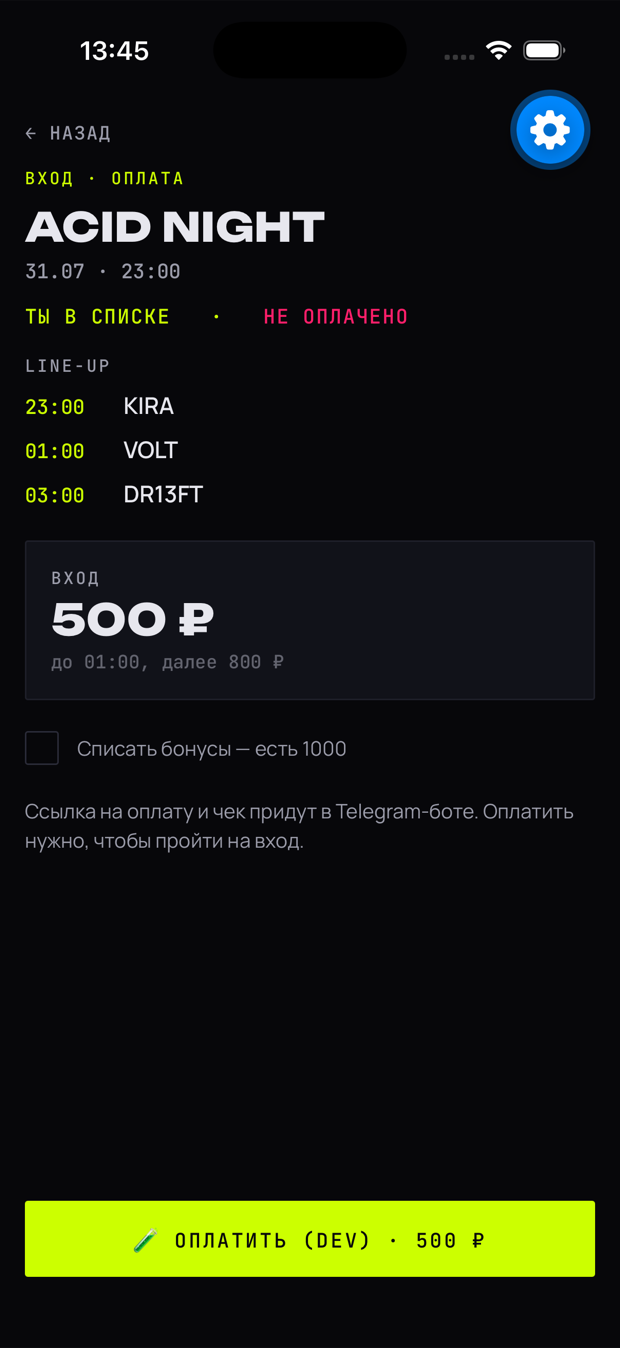
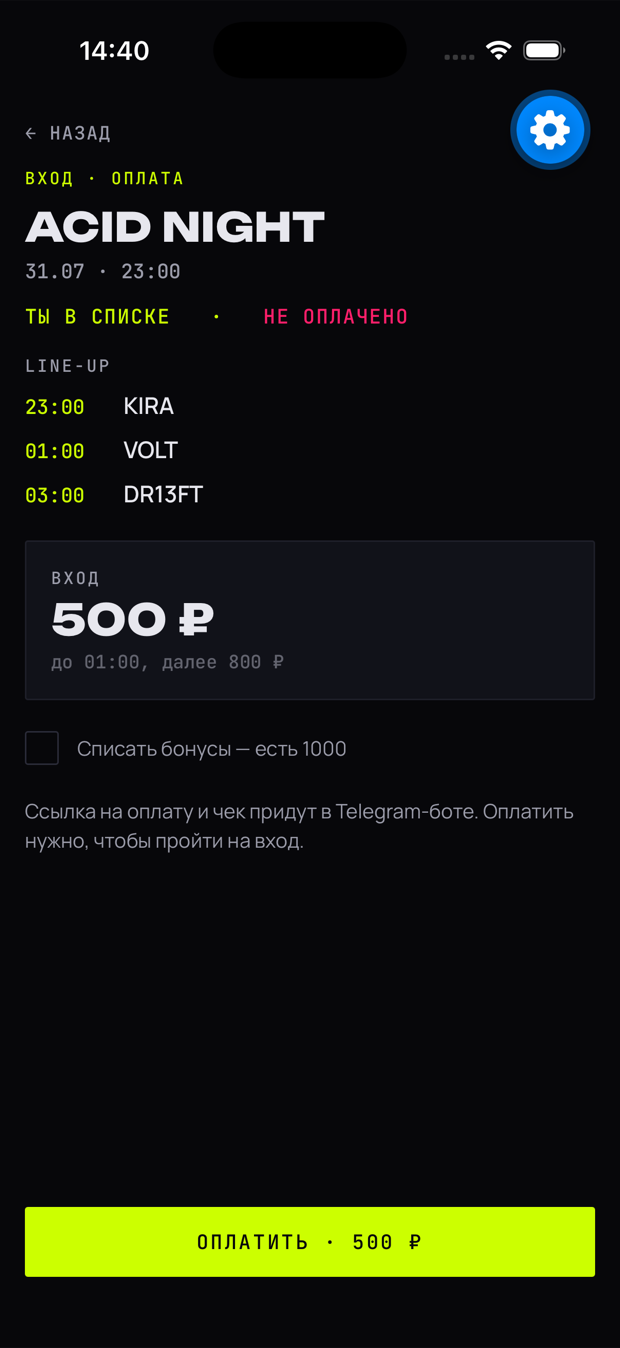
feat: одностраничник для платёжного провайдера + чистый скрин оплаты
Страница /partners (Vite multi-page): описание бизнеса EXIT 13, схема платёжного
флоу (оплата в приложении + на месте по QR), возвраты, безопасность, реквизиты —
юр-поля оставлены плейсхолдерами для клуба. Формулировки выверены под онбординг PSP,
без оверклейма готовности (54-ФЗ и боевой PSP — «на этапе подключения»).
Скрин экрана оплаты пересnят без dev-метки на кнопке.

Claude-Session: https://claude.ai/code/session_01TBHecjr9AaS8Mfd7oPYaSz

Changed region(s): [[0.0306, 0.8724, 0.95, 0.9347], [0.1226, 0.0312, 0.1839, 0.0623], [0.2145, 0.0312, 0.2452, 0.0623]]

diff --git a/src/components/Partners.tsx b/src/components/Partners.tsx
@@ -1,0 +1,222 @@
+import { Fragment } from 'react'
+import { VENUE } from '../data'
+import { asset } from '../lib/asset'
+
+// Одностраничник для платёжного провайдера (Platega): описание бизнеса + схема
+// платёжного флоу + комплаенс. Юр-данные — плейсхолдеры, их заполняет клуб.
+
+const FLOW_APP = [
+  'Гость выбирает вход на событие или бронь стола',
+  'Нажимает «Оплатить» в приложении',
+  'Бэкенд создаёт заказ и инвойс в PSP',
+  'Оплата банковской картой на защищённой странице PSP',
+  'PSP присылает вебхук (проверяем подпись)',
+  'Вход / бронь отмечаются оплаченными',
+]
+
+const FLOW_ONSITE = [
+  'Персонал вводит сумму в разделе «Касса»',
+  'Бэкенд создаёт заказ и инвойс в PSP',
+  'Приложение показывает QR со ссылкой на оплату',
+  'Гость сканирует QR и платит картой на странице PSP',
+  'PSP присылает вебхук (проверяем подпись)',
+  'Заказ отмечается «Оплачено»',
+]
+
+function Fill({ children }: { children: React.ReactNode }) {
+  return (
+    <span className="rounded-[2px] border-b border-dashed border-acid/50 bg-acid/5 px-1 text-acid/85">
+      {children}
+    </span>
+  )
+}
+
+function FlowRow({ label, steps, accent }: { label: string; steps: string[]; accent: string }) {
+  return (
+    <div className="rounded-sm border border-white/10 bg-ink p-5 sm:p-7">
+      <div className="mono-label mb-5" style={{ color: accent }}>
+        {label}
+      </div>
+      <div className="flex flex-col gap-3 lg:flex-row lg:items-stretch lg:gap-2">
+        {steps.map((s, i) => (
+          <Fragment key={i}>
+            <div
+              className="flex-1 rounded-sm border bg-void p-4"
+              style={{ borderColor: `${accent}33` }}
+            >
+              <span className="font-mono text-xs font-medium" style={{ color: accent }}>
+                {String(i + 1).padStart(2, '0')}
+              </span>
+              <p className="mt-1.5 text-sm leading-snug text-white/80">{s}</p>
+            </div>
+            {i < steps.length - 1 && (
+              <div
+                className="flex shrink-0 items-center justify-center font-mono text-lg"
+                style={{ color: accent }}
+                aria-hidden
+              >
+                <span className="lg:hidden">↓</span>
+                <span className="hidden lg:inline">→</span>
+              </div>
+            )}
+          </Fragment>
+        ))}
+      </div>
+    </div>
+  )
+}
+
+function Card({ title, children }: { title: string; children: React.ReactNode }) {
+  return (
+    <div className="rounded-sm border border-white/10 bg-ink p-6">
+      <div className="font-display text-lg text-acid">{title}</div>
+      <div className="mt-2 text-sm leading-relaxed text-white/70">{children}</div>
+    </div>
+  )
+}
+
+export default function Partners() {
+  return (
+    <div className="grain min-h-screen">
+      {/* Шапка */}
+      <header className="border-b border-white/8">
+        <div className="container-x flex items-center justify-between py-5">
+          <a href={asset('/')} className="font-display text-xl font-black tracking-tight text-white">
+            EXIT<span className="text-acid">13</span>
+          </a>
+          <a
+            href={asset('/')}
+            className="font-mono text-xs uppercase tracking-[0.18em] text-white/60 transition-colors hover:text-acid"
+          >
+            ← на сайт
+          </a>
+        </div>
+      </header>
+
+      <main className="container-x py-14 sm:py-20">
+        {/* Заголовок */}
+        <div className="max-w-3xl">
+          <div className="mono-label mb-4">Для платёжного провайдера</div>
+          <h1 className="font-display text-4xl leading-[0.95] text-white sm:text-6xl">
+            EXIT 13 — <span className="text-acid">платёжное</span> подключение
+          </h1>
+          <p className="mt-5 text-lg text-white/70">
+            Ночной клуб и бар в Екатеринбурге. Приложение лояльности с афишей, бронью столов и
+            онлайн-оплатой входа. Ниже — что продаётся, как устроен платёжный флоу и данные для
+            подключения эквайринга.
+          </p>
+          <div className="mt-6 inline-flex items-center gap-2.5 rounded-sm border border-white/15 bg-ink px-4 py-2.5 font-mono text-xs text-white/70">
+            <span className="h-2 w-2 shrink-0 rounded-full bg-cyan" />
+            Интеграция готова к подключению эквайринга — сейчас на этапе финального подключения PSP.
+          </div>
+        </div>
+
+        {/* О бизнесе */}
+        <section className="mt-14">
+          <h2 className="font-display text-2xl text-white sm:text-3xl">О бизнесе</h2>
+          <div className="mt-6 grid gap-4 sm:grid-cols-2 lg:grid-cols-3">
+            <Card title="Что за бизнес">
+              EXIT 13 — ночной клуб и пивной бар, {VENUE.city}, {VENUE.address}. Формат 21+: афиша
+              техно-вечеринок, бар и кухня, бронь столов.
+            </Card>
+            <Card title="Онлайн-продукт">
+              Мобильное приложение: клубная карта и бонусы, афиша с записью «Я иду», бронь столов,
+              оплата входа. Приложение — на публикации в сторы; сайт-витрина: {' '}
+              <a href="https://exit13.space" className="text-acid underline">exit13.space</a>.
+            </Card>
+            <Card title="Аудитория">
+              Гости клуба, {VENUE.city}. Оплата в рублях (RUB), география — РФ. Доступ по возрасту 21+.
+            </Card>
+          </div>
+        </section>
+
+        {/* Что оплачивается */}
+        <section className="mt-14">
+          <h2 className="font-display text-2xl text-white sm:text-3xl">Что оплачивается онлайн</h2>
+          <div className="mt-6 grid gap-4 sm:grid-cols-2 lg:grid-cols-3">
+            <Card title="Вход на событие">
+              Оплата входа (кавер) на вечеринку — обычно 500–1000&nbsp;₽ в зависимости от времени и
+              события.
+            </Card>
+            <Card title="Бронь стола">
+              Депозит/бронь стола на событие. Сумма — по столу и событию.
+            </Card>
+            <Card title="Оплата на месте">
+              «Касса» для персонала: приём оплаты картой по QR на входе (та же PSP-страница).
+            </Card>
+          </div>
+          <p className="mt-4 font-mono text-xs text-white/40">
+            Средний чек и месячный оборот: <Fill>заполнить</Fill> · Валюта: RUB · Тип — разовые
+            платежи (без подписок).
+          </p>
+        </section>
+
+        {/* Схема платёжного флоу */}
+        <section className="mt-14">
+          <h2 className="font-display text-2xl text-white sm:text-3xl">Схема платёжного флоу</h2>
+          <p className="mt-3 max-w-2xl text-white/60">
+            Данные карт не проходят через наши серверы — оплата идёт на защищённой странице PSP.
+            Подтверждение — по вебхуку с проверкой подписи. Два сценария:
+          </p>
+          <div className="mt-6 space-y-5">
+            <FlowRow label="1 · Оплата в приложении" steps={FLOW_APP} accent="#ccff00" />
+            <FlowRow label="2 · Оплата на месте (QR)" steps={FLOW_ONSITE} accent="#19e6ff" />
+          </div>
+        </section>
+
+        {/* Возвраты + Безопасность */}
+        <section className="mt-14 grid gap-4 lg:grid-cols-2">
+          <Card title="Возвраты">
+            Возврат инициирует гость или менеджер клуба. Отмена оплаченного входа: бонусами
+            (мгновенно) или деньгами — вручную менеджером через PSP (по заявке). Условия и сроки
+            возврата: <Fill>заполнить (оферта)</Fill>.
+          </Card>
+          <Card title="Данные и безопасность">
+            Реквизиты карт обрабатывает только PSP на своей стороне — мы их не получаем и не храним.
+            Персональные данные (телефон) — на хостинге в РФ (152-ФЗ). Фискализация чеков (54-ФЗ) —
+            на этапе подключения, ОФД пока <Fill>не выбран</Fill>.
+          </Card>
+        </section>
+
+        {/* Реквизиты и контакты */}
+        <section className="mt-14">
+          <h2 className="font-display text-2xl text-white sm:text-3xl">Реквизиты и контакты</h2>
+          <div className="mt-6 overflow-hidden rounded-sm border border-white/10">
+            {[
+              ['Юрлицо / ИП', <Fill key="ul">название — заполнить</Fill>],
+              ['ИНН / ОГРН', <Fill key="inn">заполнить</Fill>],
+              ['Сайт', <a key="site" href="https://exit13.space" className="text-acid underline">exit13.space</a>],
+              ['Приложение', <span key="app" className="text-white/70">iOS (TestFlight) / Android (APK) — по запросу</span>],
+              ['Адрес', <span key="addr" className="text-white/70">{`${VENUE.city}, ${VENUE.address}`}</span>],
+              ['Контакт', <a key="tg" href={VENUE.tg} className="text-acid underline">Telegram</a>],
+            ].map(([k, v], i) => (
+              <div
+                key={i}
+                className="flex flex-col gap-1 border-b border-white/8 bg-ink px-5 py-4 last:border-b-0 sm:flex-row sm:items-center sm:gap-6"
+              >
+                <div className="w-full font-mono text-xs uppercase tracking-widest text-white/40 sm:w-56">
+                  {k}
+                </div>
+                <div className="text-sm text-white/85">{v}</div>
+              </div>
+            ))}
+          </div>
+          <p className="mt-4 font-mono text-xs text-white/35">
+            Поля <Fill>в рамке</Fill> — заполняет клуб перед отправкой провайдеру.
+          </p>
+        </section>
+      </main>
+
+      <footer className="border-t border-white/8">
+        <div className="container-x flex flex-col items-start justify-between gap-3 py-8 sm:flex-row sm:items-center">
+          <span className="font-display text-lg font-black text-white">
+            EXIT<span className="text-acid">13</span>
+          </span>
+          <span className="font-mono text-xs text-white/40">
+            {VENUE.city} · {VENUE.address} · 21+
+          </span>
+        </div>
+      </footer>
+    </div>
+  )
+}

diff --git a/partners.html b/partners.html
@@ -1,0 +1,26 @@
+<!doctype html>
+<html lang="ru">
+  <head>
+    <meta charset="UTF-8" />
+    <link rel="icon" type="image/svg+xml" href="/favicon.svg" />
+    <meta name="viewport" content="width=device-width, initial-scale=1.0, viewport-fit=cover" />
+    <meta name="theme-color" content="#07070a" />
+    <meta name="robots" content="noindex" />
+    <title>EXIT 13 — платёжное подключение</title>
+    <meta
+      name="description"
+      content="EXIT 13 — описание бизнеса и схема платёжного флоу для подключения эквайринга: оплата входа и броней картой в приложении и по QR на месте."
+    />
+    <meta name="format-detection" content="telephone=no" />
+    <link rel="preconnect" href="https://fonts.googleapis.com" />
+    <link rel="preconnect" href="https://fonts.gstatic.com" crossorigin />
+    <link
+      href="https://fonts.googleapis.com/css2?family=Unbounded:wght@400;600;800;900&family=Manrope:wght@400;500;600;700&family=JetBrains+Mono:wght@400;500;700&display=swap&subset=cyrillic,latin"
+      rel="stylesheet"
+    />
+  </head>
+  <body>
+    <div id="root"></div>
+    <script type="module" src="/src/partners.tsx"></script>
+  </body>
+</html>

diff --git a/vite.config.ts b/vite.config.ts
@@ -7,4 +7,13 @@ import tailwindcss from '@tailwindcss/vite'
 export default defineConfig(({ command }) => ({
   base: command === 'build' ? '/exit13/' : '/',
   plugins: [react(), tailwindcss()],
+  // Мультистраничная сборка: главная + одностраничник для платёжного провайдера.
+  build: {
+    rollupOptions: {
+      input: {
+        main: 'index.html',
+        partners: 'partners.html',
+      },
+    },
+  },
 }))

diff --git a/src/partners.tsx b/src/partners.tsx
@@ -1,0 +1,10 @@
+import { StrictMode } from 'react'
+import { createRoot } from 'react-dom/client'
+import './index.css'
+import Partners from './components/Partners.tsx'
+
+createRoot(document.getElementById('root')!).render(
+  <StrictMode>
+    <Partners />
+  </StrictMode>,
+)
